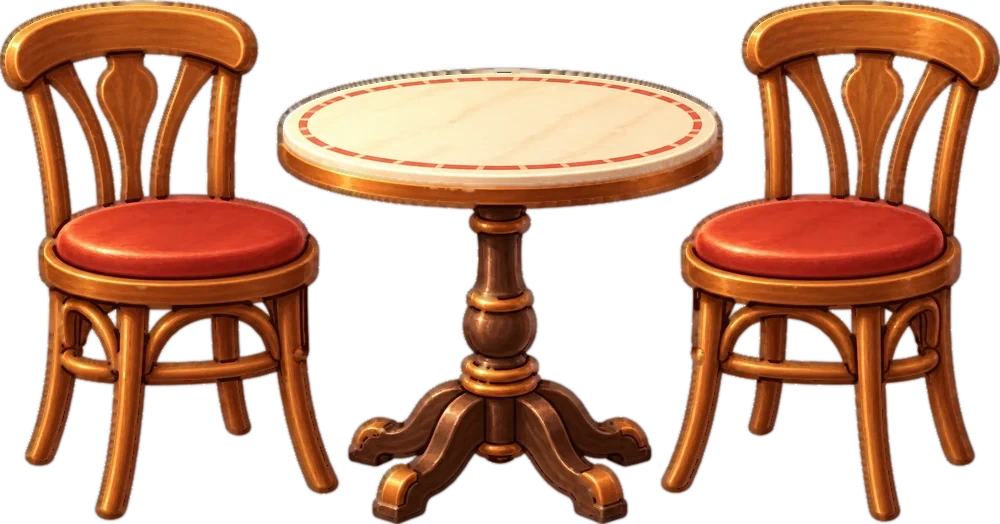
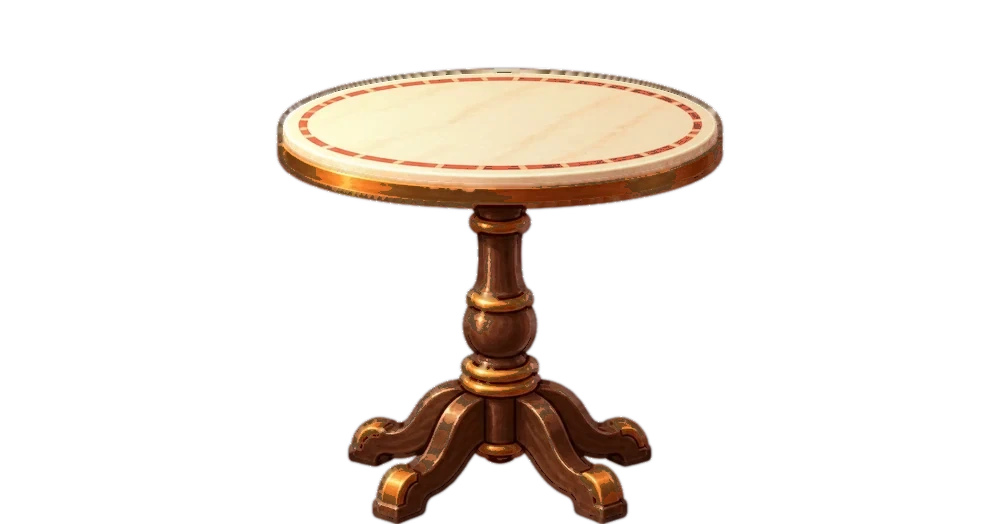
Tables: separate chairs with own offsets/tilt, chair slides with the guest, toned cushions and matte highlights, saucer under served items
Claude-Session: https://claude.ai/code/session_012nmUwDLyP2qaqLbjtxBWJU

diff --git a/bakery-street-app/src/scene/interior-scene.js b/bakery-street-app/src/scene/interior-scene.js
@@ -12,6 +12,13 @@ import { StaffLayer } from './interior-staff.js';
 /** Parallax: how far (world px) the nearest plane moves at full look, and each plane's share of it. */
 const PARALLAX_PX = 24;
 const PLANE = { wall: 0.25, deco: 0.5, kitchen: 0.8, floor: 1.1, front: 1.7 };
+/** Per-table chair offsets (design px at 2x of the picture scale) and tilt in radians: [left chair, right chair]. */
+const CHAIRS = [
+  [{ dx: -7, dy: 3, rot: -0.035 }, { dx: 9, dy: -2, rot: 0.04 }],
+  [{ dx: 5, dy: -3, rot: 0.03 }, { dx: -6, dy: 2, rot: -0.05 }],
+  [{ dx: -10, dy: 0, rot: 0.05 }, { dx: 4, dy: 4, rot: 0.02 }],
+  [{ dx: 2, dy: 3, rot: -0.02 }, { dx: 11, dy: -3, rot: -0.04 }],
+];
 const LAMPS = [285, 700, 975];
 const FONT = '700 22px "Trebuchet MS", "Segoe UI", sans-serif';
 
@@ -135,6 +142,33 @@ export class InteriorScene {
     ctx.restore();
   }
 
+  /**
+   * A table with its two chairs as separate pieces: each table has its own chair offsets and tilt, the chair a guest uses is pulled out
+   * while they walk up and slid in when they sit, and a mirrored table swaps the chairs' roles.
+   */
+  tableSet(ctx, a, tableImg, dx, dy, w, h) {
+    const i = +a.id.slice(5) - 1, tw = CHAIRS[i % CHAIRS.length], s = w / 1000;
+    const owner = this.game.cafe?.tableOwner(i), v = owner ? this.customers.v.get(owner.id) : null;
+    const near = !!(v && (v.moving || v.sit > 0 || owner.state === 'seated'));
+    const sit = v ? v.sit ?? 0 : 0;
+    const side = a.side ?? -1;                                   // the chair the guest uses
+    const slide = near ? 14 * (1 - sit) - 5 * sit : 0;           // out while walking up, in when seated
+    const draw = (key, base, cx) => {
+      const img = getImage(`int-${key}`), isGuestChair = (key === 'chair-left') === (side === -1);
+      const t = tw[key === 'chair-left' ? 0 : 1];
+      const out = isGuestChair ? slide * (key === 'chair-left' ? -1 : 1) : 0;
+      ctx.save();
+      ctx.translate(dx + cx * s + t.dx * 1.6 + out, dy + h);
+      ctx.rotate(t.rot);
+      ctx.translate(-(dx + cx * s), -(dy + h));
+      ctx.drawImage(img, dx, dy + t.dy, w, h);
+      ctx.restore();
+    };
+    ctx.drawImage(tableImg, dx, dy, w, h);
+    draw('chair-left', 0, 170);
+    draw('chair-right', 0, 830);
+  }
+
   /** Thrown shadow of a piece of furniture: its silhouette, tinted, flattened and leaning right (cached once per piece). */
   castShadow(ctx, key, img, dx, dy, w, h) {
     const K = 0.55, S = 0.2, by = dy + h;                       // lean per unit of height, depth squash (the shadow falls back and to the right)
@@ -167,11 +201,14 @@ export class InteriorScene {
     const dx = a.x + (a.w - w) / 2, dy = a.y + a.h - h;
     // grounding: the object's own silhouette thrown across the floor to the right and back (light from the upper left), soft, plus a
     // tight dark line where the base touches the floor and a faint wider pool of occlusion
-    this.castShadow(ctx, a.id.startsWith('table') ? 'table' : a.id, img, dx, dy, w, h);
+    const isTable = a.id.startsWith('table') && getImage('int-chair-left') && getImage('int-chair-right');
+    if (isTable) { this.castShadow(ctx, 'table', img, dx, dy, w, h); this.castShadow(ctx, 'chair-left', getImage('int-chair-left'), dx, dy, w, h); this.castShadow(ctx, 'chair-right', getImage('int-chair-right'), dx, dy, w, h); }
+    else this.castShadow(ctx, a.id.startsWith('table') ? 'table' : a.id, img, dx, dy, w, h);
     shadow(ctx, a.x + a.w / 2 + 6, a.y + a.h + 2, w * 0.5, 9, 0.16);
     shadow(ctx, a.x + a.w / 2 + 2, a.y + a.h, w * 0.4, 3.5, 0.34);
     this.rects[a.id] = { x: dx, y: dy, w, h };
-    if (a.flip) { ctx.save(); ctx.translate(dx + w, 0); ctx.scale(-1, 1); ctx.drawImage(img, 0, dy, w, h); ctx.restore(); }   // some tables are mirrored so they do not all look alike
+    if (isTable) this.tableSet(ctx, a, img, dx, dy, w, h);
+    else if (a.flip) { ctx.save(); ctx.translate(dx + w, 0); ctx.scale(-1, 1); ctx.drawImage(img, 0, dy, w, h); ctx.restore(); }
     else ctx.drawImage(img, dx, dy, w, h);
     const busy = !!(a.station && this.game.jobs[a.station]);
     if (a.id === 'oven' && !busy) { ctx.globalCompositeOperation = 'lighter'; glowAt(ctx, a.x + a.w / 2, a.y + a.h * 0.62, a.w * 0.42, '255,140,50', 0.09 + 0.03 * Math.sin(this.t * 3)); ctx.globalCompositeOperation = 'source-over'; }   // embers

diff --git a/bakery-street-app/src/scene/interior-staff.js b/bakery-street-app/src/scene/interior-staff.js
@@ -127,17 +127,26 @@ export class StaffLayer {
   }
 
   /** Served orders rest on their table until the guest pays: the handover is visible and stays readable. The icon flies from the waiter's hands to the tabletop. */
+  /** A small saucer on the tabletop under a served item, so it looks placed there. */
+  plate(ctx, x, y) {
+    ctx.fillStyle = 'rgba(70,48,32,.28)'; ctx.beginPath(); ctx.ellipse(x + 3, y + 4, 30, 9, 0, 0, 7); ctx.fill();
+    ctx.fillStyle = '#f6eddc'; ctx.beginPath(); ctx.ellipse(x, y, 29, 8.5, 0, 0, 7); ctx.fill();
+    ctx.strokeStyle = 'rgba(121,82,56,.55)'; ctx.lineWidth = 1.5; ctx.beginPath(); ctx.ellipse(x, y, 29, 8.5, 0, 0, 7); ctx.stroke();
+    ctx.strokeStyle = 'rgba(121,82,56,.25)'; ctx.beginPath(); ctx.ellipse(x, y, 19, 5, 0, 0, 7); ctx.stroke();
+  }
+
   drawServed(ctx) {
     const cafe = this.game.cafe;
     for (const c of cafe?.customers ?? []) {
       const o = c.state === 'seated' ? cafe.orderOf(c) : null;
       if (!o || o.status !== 'open' || !this.served.has(o.id)) continue;
       const a = AREAS.find((x) => x.id === `table${c.table + 1}`);
-      drawIcon(ctx, o.product, a.x + a.w / 2, a.y + a.h * 0.25, 34);
+      this.plate(ctx, a.x + a.w / 2, a.y + a.h * 0.26);
+      drawIcon(ctx, o.product, a.x + a.w / 2, a.y + a.h * 0.26 - 12, 34);
     }
     if (this.phase === 'hand' && this.carry) {                // the icon is carried from the hands toward the table while handing over
       const w = this.waiter, a = AREAS.find((x) => x.id === this.job.table), k = Math.min(1, this.handT / HAND_SEC);
-      drawIcon(ctx, this.carry, w.x + w.dir * 40 + (a.x + a.w / 2 - (w.x + w.dir * 40)) * k, w.y - 108 + (a.y + a.h * 0.25 - (w.y - 108)) * k, 36);
+      drawIcon(ctx, this.carry, w.x + w.dir * 40 + (a.x + a.w / 2 - (w.x + w.dir * 40)) * k, w.y - 108 + (a.y + a.h * 0.26 - 12 - (w.y - 108)) * k, 36);
     }
   }
 

diff --git a/bakery-street-app/src/assets.js b/bakery-street-app/src/assets.js
@@ -32,7 +32,7 @@ for (const name of PROPS) MANIFEST[`prop-${name}`] = `assets/props/${name}.webp`
 // its own drawing. Names that are not listed are never requested (no 404 noise). Possible names: wall, floor, oven, counter, showcase,
 // coffee, storage, upgrades, table, chair (see assets/interior/README.md).
 export const INTERIOR_ART = ['oven', 'counter', 'showcase', 'coffee', 'storage', 'upgrades', 'table', 'wall', 'floor',
-  'window-arch', 'window-shutter', 'shelf', 'door', 'rack', 'beam'];   // the last six are wall decoration (see InteriorScene.decor)
+  'window-arch', 'window-shutter', 'shelf', 'door', 'rack', 'beam', 'chair-left', 'chair-right'];   // the last six are wall decoration (see InteriorScene.decor)
 for (const name of INTERIOR_ART) MANIFEST[`int-${name}`] = `assets/interior/${name}.webp`;
 
 // Item icons (assets/icons/<id>.webp, 256 px): products and ingredients, keyed 'icon-<id>'. The emoji in data/economy.js stay as the text

diff --git a/bakery-street-app/README.md b/bakery-street-app/README.md
@@ -102,3 +102,7 @@ Cafe furniture throws its own silhouette across the floor (tinted dark brown, fl
 ### Scattered tables
 
 The four tables no longer sit in one row: they are at different depths (front edges y 732 / 732 / 786 / 798 after the sizes in `AREAS`), slightly different sizes, and two are mirrored (`flip`), so the room reads like a real cafe floor. Guests still use the same lane and the gap beside their table; the access gaps stay clear.
+
+### Tables as separate pieces
+
+`assets/game/interior/table.webp` was cut into `table.webp` (table only), `chair-left.webp` and `chair-right.webp` (connected-component split of the original picture, colour-graded: cushions toned from bright red to a matte terracotta, specular highlights calmed, light from the left). `InteriorScene.tableSet` draws them separately: each table has its own chair offsets and tilt (`CHAIRS`), the chair a guest uses is pulled out while they walk up and slid in when they sit, and each chair throws its own shadow. A served item rests on a small saucer on the tabletop.
